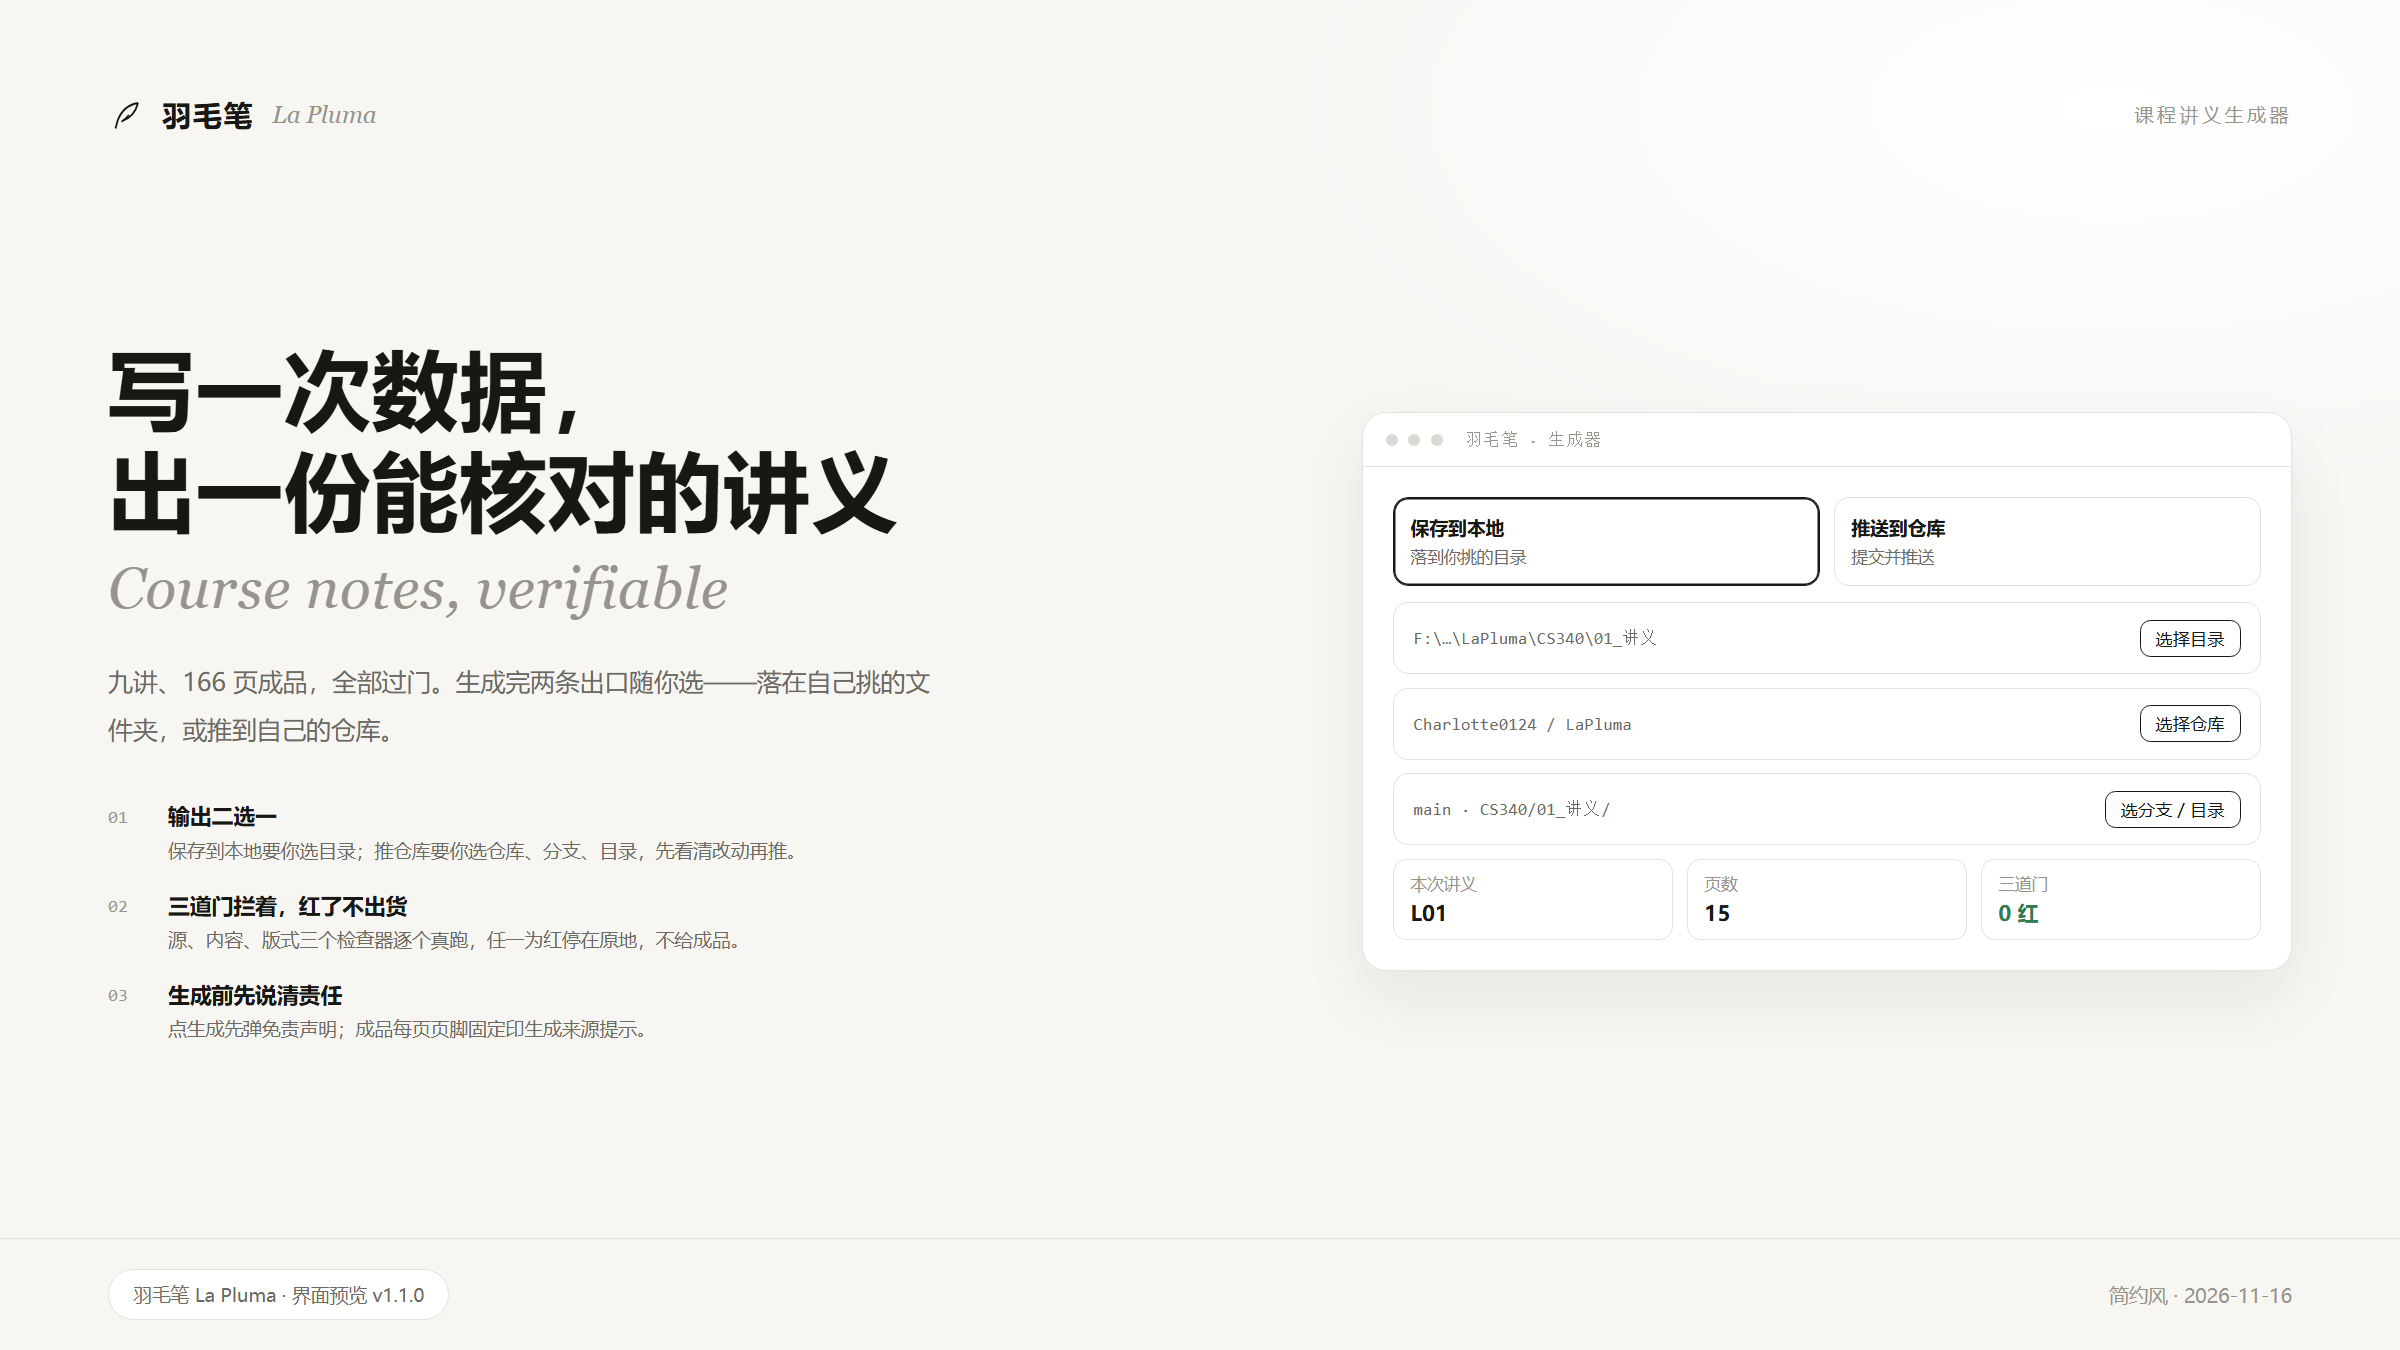
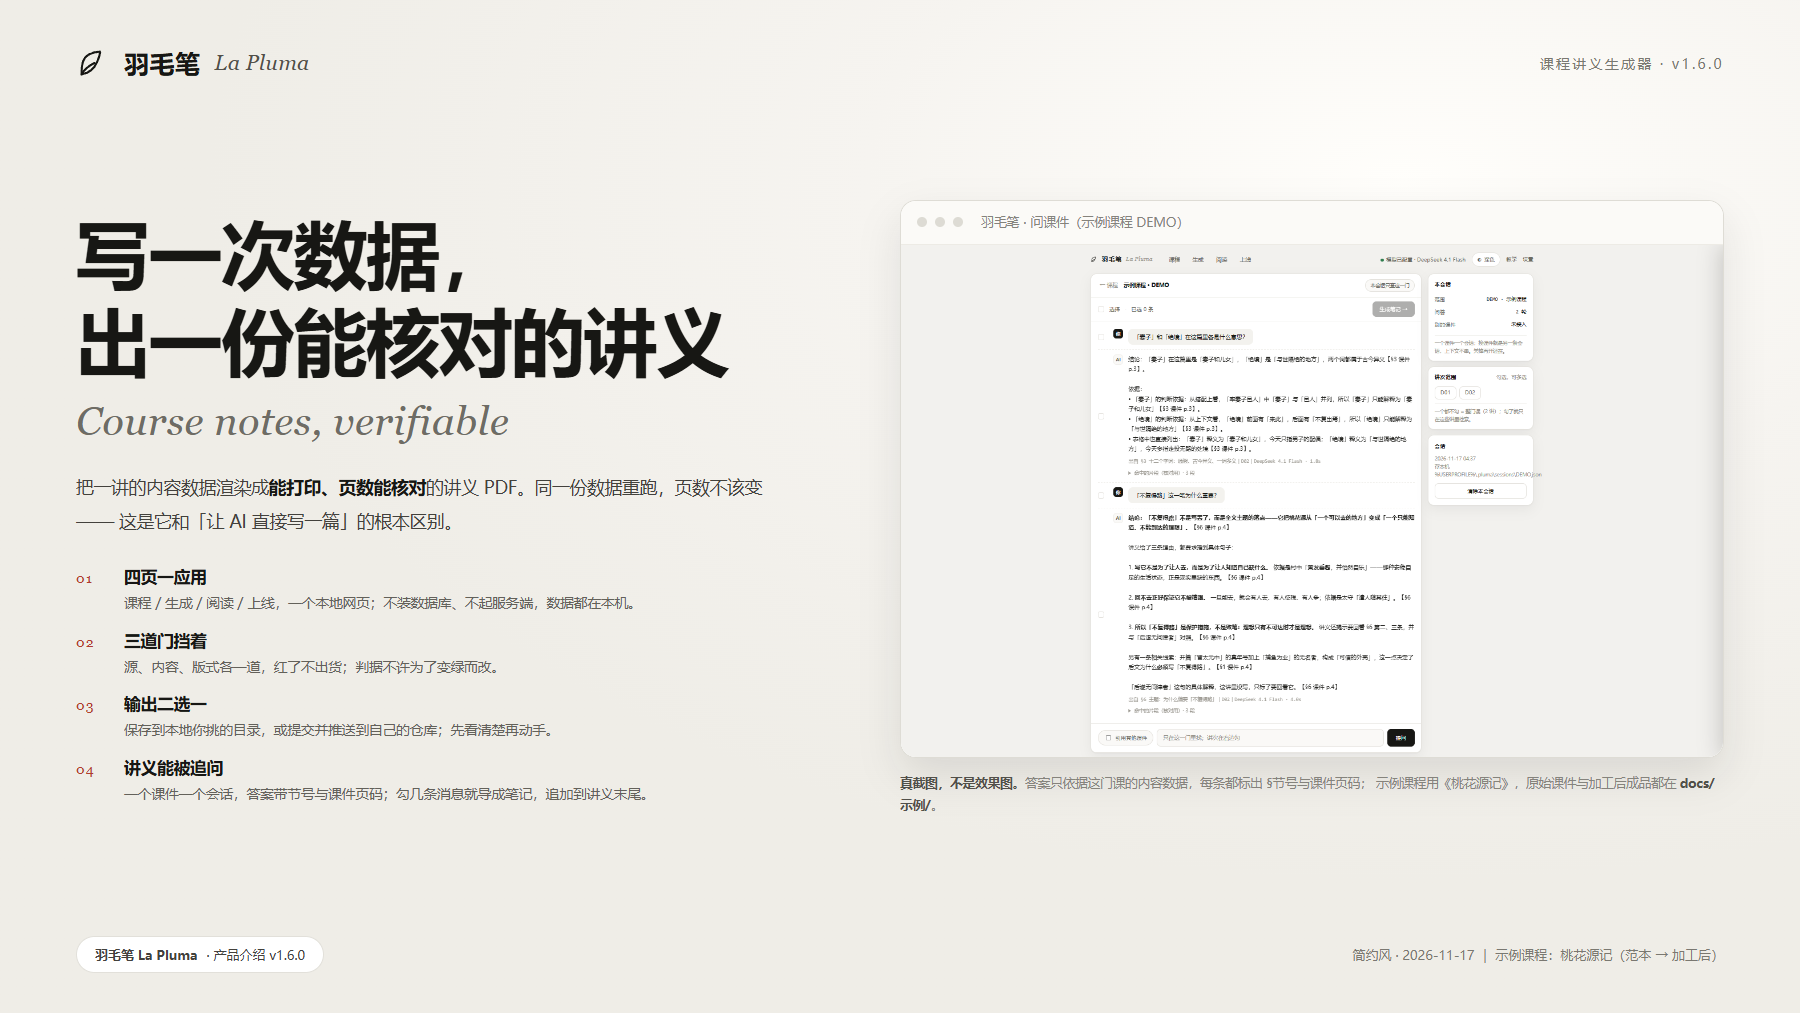
docs(主页): 目的写在下载栏、加功能一览与示例行、三张关键界面图重拍
用户 2026-11-17 的六条要求，落在主页上的是前五条：

1. 目的：下载那一栏开头直接写「它解决什么 / 它不解决什么」——
   下载页的人最需要先知道这两句。
2. 功能一览：一张表列九样（数据→讲义、三道门、四页界面、阅读+笔记、
   问课件、导笔记、合订本、主机上线、模型两档），不再只有一段散文。
3. 示例行：「我想…」表在「界面」与「一条命令」之间加一行
   「看范本与加工后差多少 → docs\示例（原始课件 4 页 → 讲义 13 页）」。
4. 界面图：换成三张新的真截图（1440×900 统一尺寸）——
   问课件（两轮真问答，答案带 § 与课件页码）、导出笔记（列出这一门 2 份成品）、
   主机上线（局域网地址 + 8 位访问码）。真实内网 IP 与访问码已换成示意值，
   拍完逐张核对过没有残留。
5. 产品介绍图：从 v1.1.0 的旧样张换成 v1.6.0——左侧目的与四条要点，
   右侧是真实界面的窗框（不再用画的）。

顺带修 sync-readme.py：把替换串当正则模板用时，CHANGELOG 里的反斜杠
（如 tools\print\pdfjs）会触发 bad escape \p，改成函数替换。

校验：check-readme-standard.ps1 -Strict 六块齐（0 缺项）；
sync-readme.py --check 一致。

diff --git a/README.md b/README.md
@@ -4,13 +4,13 @@
 
 <br>
 
-[![下载 v1.5.0](https://img.shields.io/badge/⬇_下载-v1.5.0-171714?style=for-the-badge)](https://github.com/Charlotte0124/LaPluma/releases/latest)
+[![下载 v1.6.0](https://img.shields.io/badge/⬇_下载-v1.6.0-171714?style=for-the-badge)](https://github.com/Charlotte0124/LaPluma/releases/latest)
 [![一键启动](https://img.shields.io/badge/▶_一键启动-一键启动.ps1-C8202C?style=for-the-badge)](一键启动.ps1)
 [![文档](https://img.shields.io/badge/📖_文档-总索引-6c6a63?style=for-the-badge)](docs/00-总索引.md)
 
 ![MIT](https://img.shields.io/badge/license-MIT-171714?style=flat-square)
 ![Python](https://img.shields.io/badge/python-3.12-171714?style=flat-square)
-![version](https://img.shields.io/badge/version-1.5.0-171714?style=flat-square)
+![version](https://img.shields.io/badge/version-1.6.0-171714?style=flat-square)
 ![gates](https://img.shields.io/badge/三道门-绿才出门-C8202C?style=flat-square)
 
 </div>
@@ -21,12 +21,17 @@
 |:--|:--|
 | 装上直接用 | [下载](#下载) · [一键启动](#一键启动) |
 | 看它长什么样 | [界面](#界面)（真截图） |
+| 看范本与加工后差多少 | [示例：桃花源记](docs/示例/README.md)（原始课件 4 页 → 讲义 13 页） |
 | 知道生成怎么跑 | [一条命令](#一条命令) · [三道门](#三道门) |
 | 懂它分几层、怎么改 | [分层](#分五层每层可单独换) |
 | 看全部文档 | [`docs\00-总索引`](docs/00-总索引.md) |
 | 配模型、看余额 | [模型与用量](#模型与用量) |
 
 ## 下载
+
+**它解决什么**：你不是想让人工智能写一篇作文，你是想把**已经备好的课**变成一份能打印、页数能核对、每次重跑都一样的讲义 PDF。所以这里的数据是数据、版式是版式、检查是检查——三者分开，任何一处改了都能单测。
+
+**它不解决什么**：内容对不对、类比会不会误导、例题的数字有没有算对，脚本判不了——那一步得你自己看（成品每页页脚都写着「请自行核实重要信息」）。
 
 **从源码跑（目前唯一方式）**
 
@@ -47,6 +52,23 @@ python engine\_make.py D01
 
 换你自己的课件：把数据写成 `<课程代码>\_lessons\<讲号>.py`（结构见 `DEMO\_lessons\D01.py`），在 `courses.json` 里登记一行即可。
 
+> 示例课程现在有两讲：`D01` 讲流水线自身怎么跑，`D02` 是《桃花源记》（13 页），
+> 配 [docs\示例](docs/示例/README.md) 里那 4 页**原始课件**一起看，能看出「加工」到底加了什么。
+
+## 功能一览
+
+| 它能做什么 | 具体到哪 |
+|:--|:--|
+| **数据 → 讲义** | 一讲一份 Python 数据，渲染成 HTML 再用本机浏览器打 PDF；版式与内容分开，改版式不动内容 |
+| **三道门** | 源、内容（读者口径 / 公式符号表 / 术语每节首次附英 / 单段 ≤210 字）、版式（页首是标题或表格、无残页）；红了不出货 |
+| **四页界面** | 课程 / 生成 / 阅读 / 上线，一个本地网页，不装数据库 |
+| **应用内阅读 + 笔记** | 在软件里翻页读 PDF，边上记笔记；可把笔记作为附页**追加到副本末尾**，不动原件 |
+| **问课件** | 一个课件一个会话；答案只依据这门课的数据，带 §节号与课件页码，命中的片段可展开核对 |
+| **导笔记** | 勾几条问答 → 生成笔记 → 选一份讲义追加到末尾（默认本地整理，不花 token） |
+| **合订本** | 多讲合成一本：1 张封面 + 1 张总目录，去掉各讲自带的封面与目录 |
+| **主机上线** | `--lan` 起服务，8 位访问码给同 WiFi 的平板用；数据都在本机，关窗口就断 |
+| **模型可换** | DeepSeek 4.1 Flash / 4.1 Pro 两档，密钥只存本机；不配密钥也能出 PDF（已有数据不需要模型） |
+
 ## 一键启动
 
 `一键启动.ps1` 做四件事：查 Python → 缺 `pymupdf` 就装 → 起本地界面 → 打开浏览器。**只监听 127.0.0.1，不对外。**
@@ -61,16 +83,25 @@ python engine\_make.py L01
 
 ## 界面
 
-界面是**四个分页（课程 / 生成 / 阅读 / 上线）+ 一条课件会话**，白天黑夜两套主题：
+界面是**四个分页（课程 / 生成 / 阅读 / 上线）+ 一条课件会话**，白天黑夜两套主题。下面三张都是真截图（示例课程 DEMO，1440×900）：
 
 <div align="center">
-<img src="docs/资产/界面-主页.png" alt="课程页" width="820">
+<img src="docs/资产/界面-会话.png" alt="问课件：两轮真问答，答案带 §节号与课件页码" width="820">
 </div>
 
+<p align="center"><sub><b>问课件</b>：一个课件一个会话；答案只依据这门课的内容数据，每条标出 §节号与课件页码，命中的片段可展开核对。</sub></p>
+
 <div align="center">
-<img src="docs/资产/界面-文件列表.png" alt="点课程开抽屉，底部是问课件入口" width="400">
-<img src="docs/资产/界面-会话.png" alt="这门课自己的会话" width="400">
+<img src="docs/资产/界面-导出笔记.png" alt="勾几条问答，导成笔记追加到讲义末尾" width="820">
 </div>
+
+<p align="center"><sub><b>导出笔记</b>：勾几条问答 → 选一份讲义（列表里是这一门已有的成品）→ 追加到副本末尾，不动原件。</sub></p>
+
+<div align="center">
+<img src="docs/资产/界面-上线.png" alt="主机上线：局域网地址 + 8 位访问码" width="820">
+</div>
+
+<p align="center"><sub><b>主机上线</b>：`\一键启动.ps1 -Lan` → 局域网地址 + 8 位访问码；平板同 WiFi 输码即用。（图中地址与访问码为示意值）</sub></p>
 
 - **课程**（分页一）：按目录自动识别；卡片右上 ☆ 收进收藏夹，顶部可切「全部 / 收藏」
 - **成品**：点课程 → 右侧抽屉列出这一门的 PDF → 点文件名**在软件里读**（不再新开标签）
@@ -134,28 +165,30 @@ A/B/C 三层离线可跑；只有「让 AI 写新内容」才需要 D。
 <!-- 最近更新:begin（由 tools/sync-readme.py 生成，别手改） -->
 | 版本 | 日期 | 这一版做了什么 |
 |:--|:--|:--|
+| **v1.6.0** | 11-17 | **打包地基**：新增 `paths.py`，把「只读资源」与「可写数据」分成两根；`/api/generate` 与引擎内部全部改成进程内调用，不再用 `sys.executable` 起第二个 exe；新增判据 `tools\check\check-paths.py`：假打包现场判 7 项，自带造坏自测（造坏 3 红、复原 7 绿）… |
 | **v1.5.0** | 11-16 | 界面改成**四个分页**：课程 / 生成 / 阅读 / 上线；顶栏一个「◐」切白天黑夜，主题存本机；**05/06 会话页重做**：每条消息可勾选、讲次改成勾选多选（空 = 整门课，可只选几讲）、模型回答按 Markdown 渲染（粗体 / 行内代码 / 代码块，不再把 `**` 直接晒出来）… |
 | **v1.4.0** | 11-16 | 界面新增「成品形态」：**单本（默认）/ 合订本**；合订本按 B 口径（一张封面 + 一张总目录，去掉各讲自带的封面与目录），选中时讲次选择自动置灰；新增 `engine/_book.py`：九讲合订本；自检三条——节数与各讲对得上、页数 = 1 + 目录页 + Σ(各讲页数 − 2)、目录 9 条全回填（实测 144 页 = 1 + 1 + 142）… |
 | **v1.3.1** | 11-16 | 引擎：`fig` 引用的课件原图改成可配置目录（`~/.pluma/assets.json` → `courses.json` → `PLUMA_ASSETS` → 仓内默认），找到就写绝对 `file://` URI；**找不到就报缺图并停**，不再产出「图是白条、门还报绿」的成品；新增 `tools/assets.py`：`--list` / `--check` / `--set` / `--unset`（本机配置，不入库）… |
 | **v1.3.0** | 11-16 | L06 / L08 / L09 重做为练习型：三讲共 54 页 / 25 段代码 / 33 道例题 / 12 张结构图（地址空间对照、create→join 时序、丢更新、条件变量往返；地址轴、调用栈、空闲链表、malloc 间隙；base/limit、段表、页表翻译、两级页表）；L05 排版返工：拆成 15 节、一节一页；块级不可拆（代码/例题/图/表），断点只落在节标题上… |
-| **v1.2.1** | 11-16 | L05 重做为练习型：17 页 / 7 段代码 / 11 道例题 / 4 张结构图（三类 IPC、竞争条件时间线、down·up 路径、环形缓冲）；修两个渲染 bug：长段拆分把 </p> 插进了代码块（正则把 <pre> 误当 <p>）；表格里的 ** 粗体没生效… |
 <!-- 最近更新:end -->
 
 ## 目录
 
 ```
+paths.py           路径双根（只读资源 / 可写数据，冻结后各指一处）
 engine/            A 引擎（_build_讲义.py / _make.py / _split_long.py / _pagediag.py）
-CS340/_lessons/    B 内容数据（L01–L09 九讲）
+CS340/_lessons/    B 内容数据（L01–L09 九讲，不入公开仓）
+DEMO/_lessons/     示例课程数据（D01 流水线自述、D02 桃花源记）
 CS340/06_笔记/     生成的讲义源（不入库）
 CS340/01_讲义/     生成的 PDF（不入库）
-tools/print/       C 内容门 / 版式门 / 打印 / KaTeX
+tools/print/       C 内容门 / 版式门 / 打印 / KaTeX / pdf.js
 tools/src/         源门
-tools/check/       自检（check-ui-preview.py：界面改动必须先有预览图）
+tools/check/       自检（check-ui-preview.py 界面先出图；check-paths.py 路径双根）
 tools/sync-readme.py  主页「最近更新」生成器
 api/               D 模型接入
 ui/                E 本地界面
 docs/              给人看的文档（总索引 → 分类 → 篇）
-docs/预览/         界面设计稿（还没实现；实现后由 docs/资产/界面-*.png 接替）
+docs/示例/         桃花源记：原始课件（范本）与加工后讲义
 courses.json       课程元数据（标题 / 说明 / 读者口径）
 ```
 

diff --git a/CHANGELOG.md b/CHANGELOG.md
@@ -2,6 +2,16 @@
 
 > 每条一个版本；`## vX.Y.Z · YYYY-MM-DD` 是硬格式，`tools/sync-readme.py` 靠它生成主页的「最近更新」表。
 
+## v1.6.0 · 2026-11-17
+
+- **打包地基**：新增 `paths.py`，把「只读资源」与「可写数据」分成两根；`/api/generate` 与引擎内部全部改成进程内调用，不再用 `sys.executable` 起第二个 exe
+- 新增判据 `tools\check\check-paths.py`：假打包现场判 7 项，自带造坏自测（造坏 3 红、复原 7 绿）
+- 路径细节：`engine\` / `ui\` / `tools\` 里原先各自写的 `ROOT = dirname(dirname(__file__))` 全部换掉——冻结后那个根指向临时解包目录，`tools\print\pdfjs` 与 KaTeX 字体会全部找不到，生成物也会被写进临时目录
+- 生成细节：`/api/generate` 不再 `subprocess` 起 `sys.executable` 跑 `engine\_make.py`（冻结后 `sys.executable` 就是 exe 自己，点一次生成会再开一个软件）；改成 import 后直接调 `make()` / `main()`，日志用 `emit` 收回；`_make.py` / `_book.py` 内部也不再 subprocess 调 `audit_lesson.py`、`html2pdf.py`
+- 示例课程新增第二讲 **D02 桃花源记**（13 页，三道门全过）；新增 `docs\示例\`：`桃花源记-范本.pdf`（原始 4 页课件）与 `桃花源记-讲义（加工后）.pdf`，主页给出「范本 → 成品」对照
+- 主页改版：「目的」写进下载那栏；新增「功能一览」；「我想…」表加一行「看范本与加工后差多少」；三张关键界面图重拍（**问课件**两轮真问答、**导出笔记**、**主机上线**），产品介绍图换成 v1.6.0（拿真实截图，不再用旧样张）
+- 界面图统一 1440×900；真实内网 IP 与访问码在截图里换成文档专用地址示意值（`192.0.2.23`，RFC 5737 保留段）与示意码（`7306 1924`），拍完逐张核对过没有残留
+
 ## v1.5.0 · 2026-11-16
 
 - 界面改成**四个分页**：课程 / 生成 / 阅读 / 上线；顶栏一个「◐」切白天黑夜，主题存本机

diff --git a/docs/00-总索引.md b/docs/00-总索引.md
@@ -7,6 +7,7 @@
 | 想知道什么 | 去哪看 |
 |:--|:--|
 | 装上就能跑起来 | [使用/01-快速开始](使用/01-快速开始.md) |
+| 先看一份真实输入与输出长什么样 | [示例/README](示例/README.md)（桃花源记：原始课件 4 页 → 讲义 13 页） |
 | 怎么把一讲出成 PDF | [使用/02-生成一讲讲义](使用/02-生成一讲讲义.md) |
 | 三道门到底判什么、红了怎么办 | [使用/03-三道门](使用/03-三道门.md) |
 | 课件原图在哪、找不到图怎么办 | [使用/05-课件图目录](使用/05-课件图目录.md) |
@@ -24,6 +25,7 @@
 | 问课件 | 课程 → 卡片 → 抽屉底部「问这一门」；一个课件一个会话，默认整门课检索，跨课件要勾开关 |
 | 内容数据 | CS340 共 9 讲可生成（L01–L09），9 份成品 160 页，全部过门 |
 | 质量门 | 源 / 内容 / 版式三道，任一红即停 |
+| 路径与打包 | `paths.py` 双根（资源 / 数据）；`python tools\check\check-paths.py` 判 7 项，带 `--selftest` 造坏验证 |
 | 界面 | `python ui\server.py`，浏览器里选课、看成品、一个课件一个会话 |
 | 界面改动的规矩 | 先出图后改码；`python tools\check\check-ui-preview.py` 判红黄（红＝没带预览图） |
 | 模型接入 | DeepSeek 兼容口径，只有两档：4.1 Flash / 4.1 Pro（接口 id 仍是 `deepseek-flash` / `deepseek-v4-pro`） |
